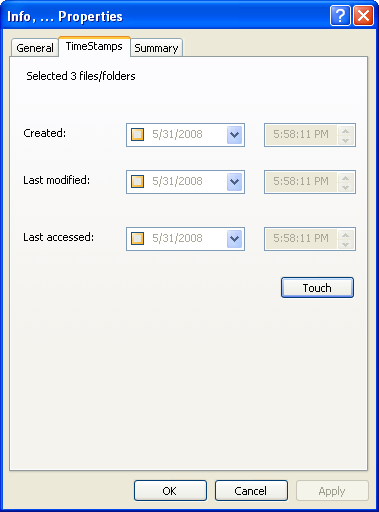
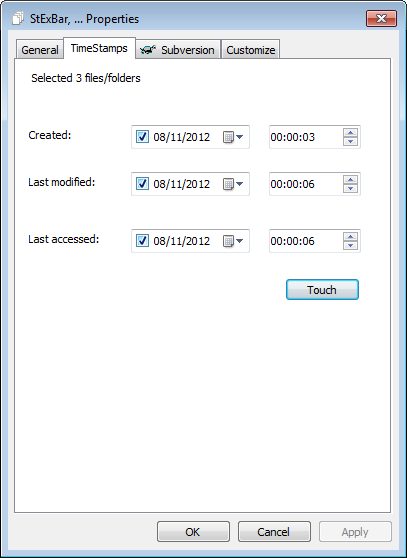
add newer SKTimeStamp screenshots

diff --git a/www/SKTimeStamp.html b/www/SKTimeStamp.html
@@ -26,9 +26,9 @@
 				Go to the <a href="http://code.google.com/p/stexbar/downloads/list">download page</a>.
 			</p>
 			<br/>
-			<img src="img/sktimestamp/SKTimeStamp_multiple.png" alt="SKTimeStamp for multiple files" width="379" height="512"/>
+			<img src="img/sktimestamp/SKTimeStamp_multiple.png" alt="SKTimeStamp for multiple files" width="407" height="558"/>
 			<br/>
-			<img src="img/sktimestamp/SKTimeStamp_one.png" alt="SKTimeStamp for one file" width="379" height="512"/>
+			<img src="img/sktimestamp/SKTimeStamp_one.png" alt="SKTimeStamp for one file" width="419" height="518"/>
 		</div>
 	</div>
 </div>
